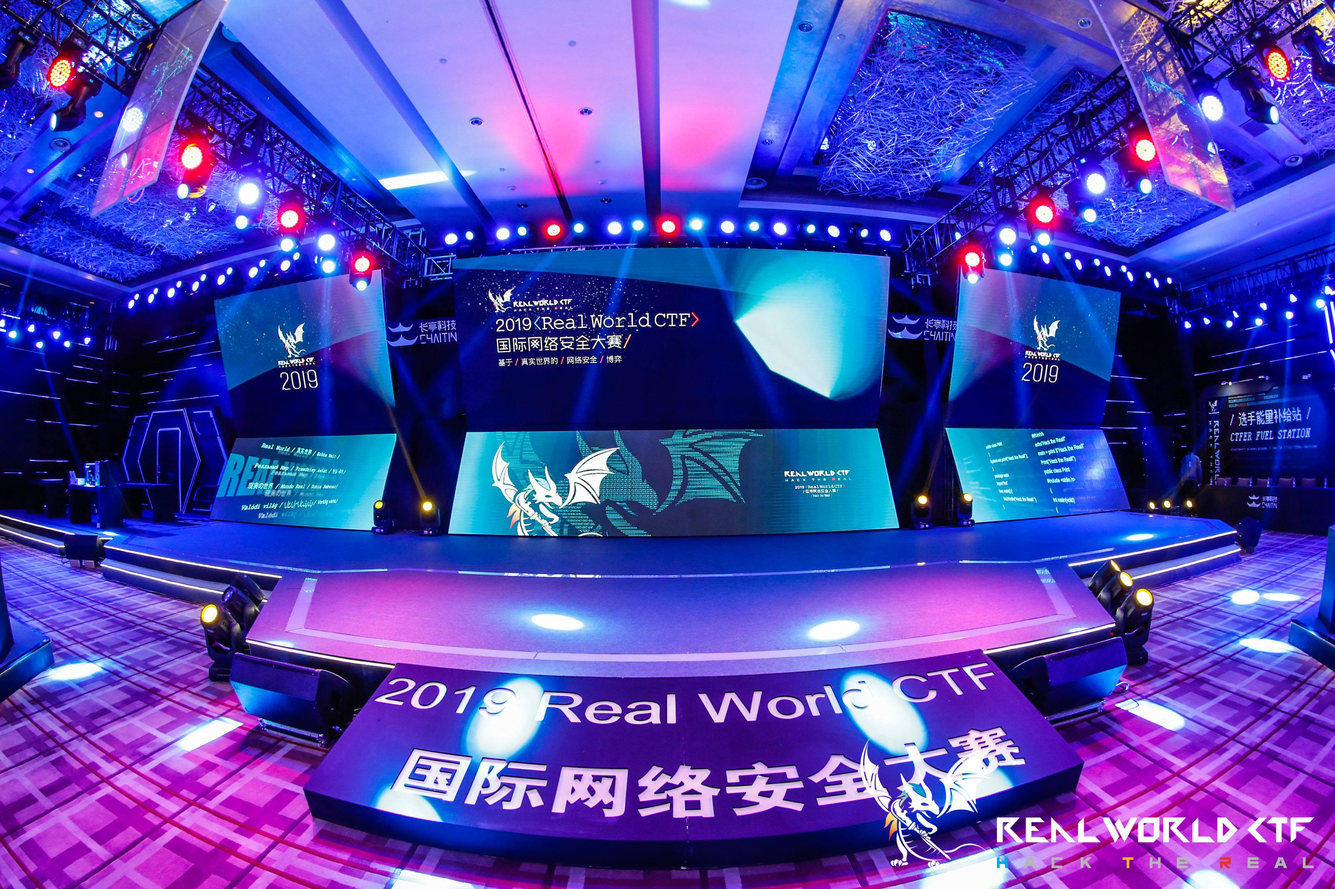
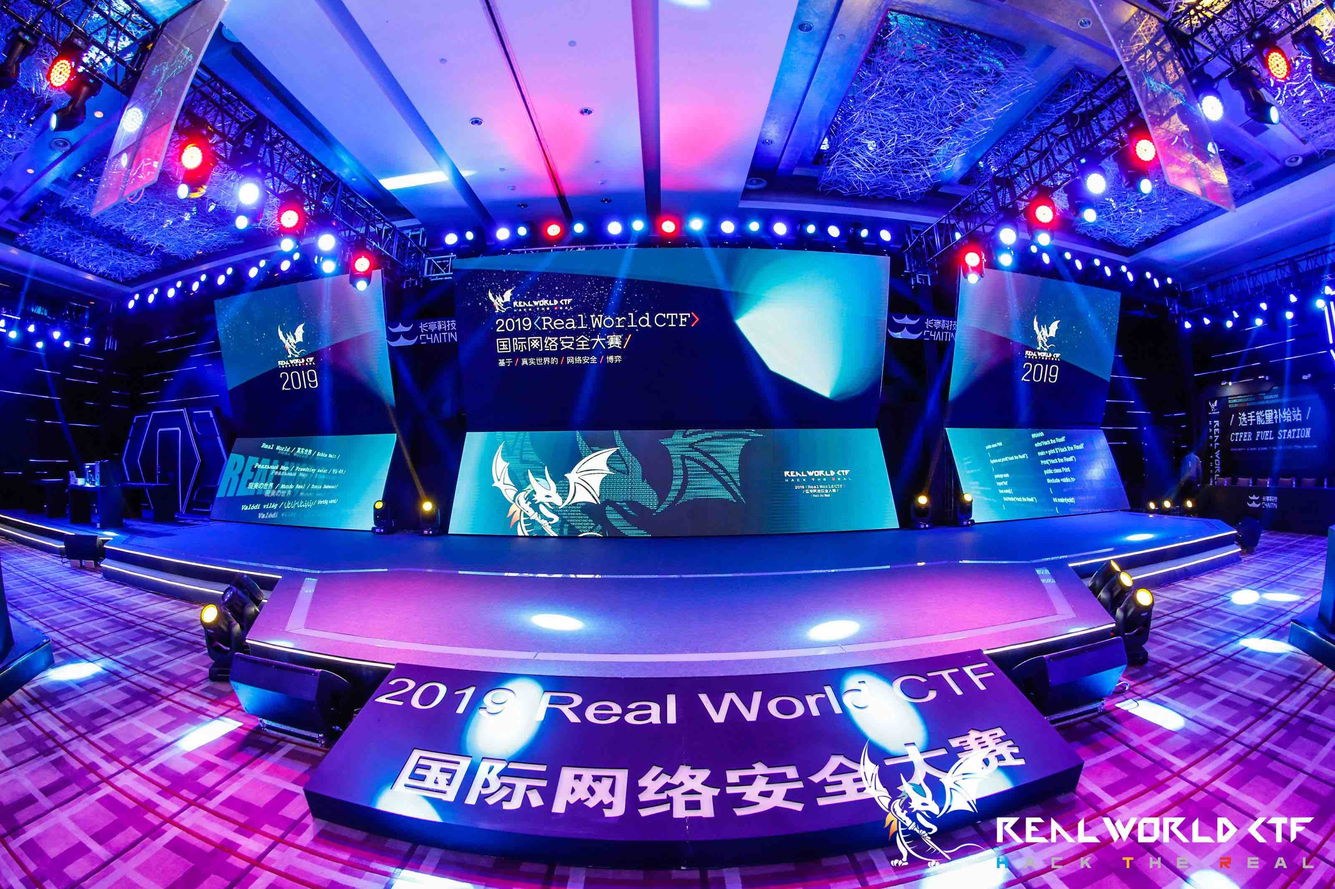
compress pics

diff --git a/_posts/2022-10-01-CLUB-caa.md b/_posts/2022-10-01-CLUB-caa.md
@@ -61,7 +61,7 @@ layout: post
 &emsp;&emsp;**多媒体部**主要培养同学们的多维创造能力，在**图片编辑和视频制作**方面进行研讨。
 
 <figure class="half">
-    <img src="../assets/caa/img/adobe.png">
+    <img src="../assets/caa/img/adobe.jpg">
 </figure>
 
 ### <span id=wx>宣传部</span>
